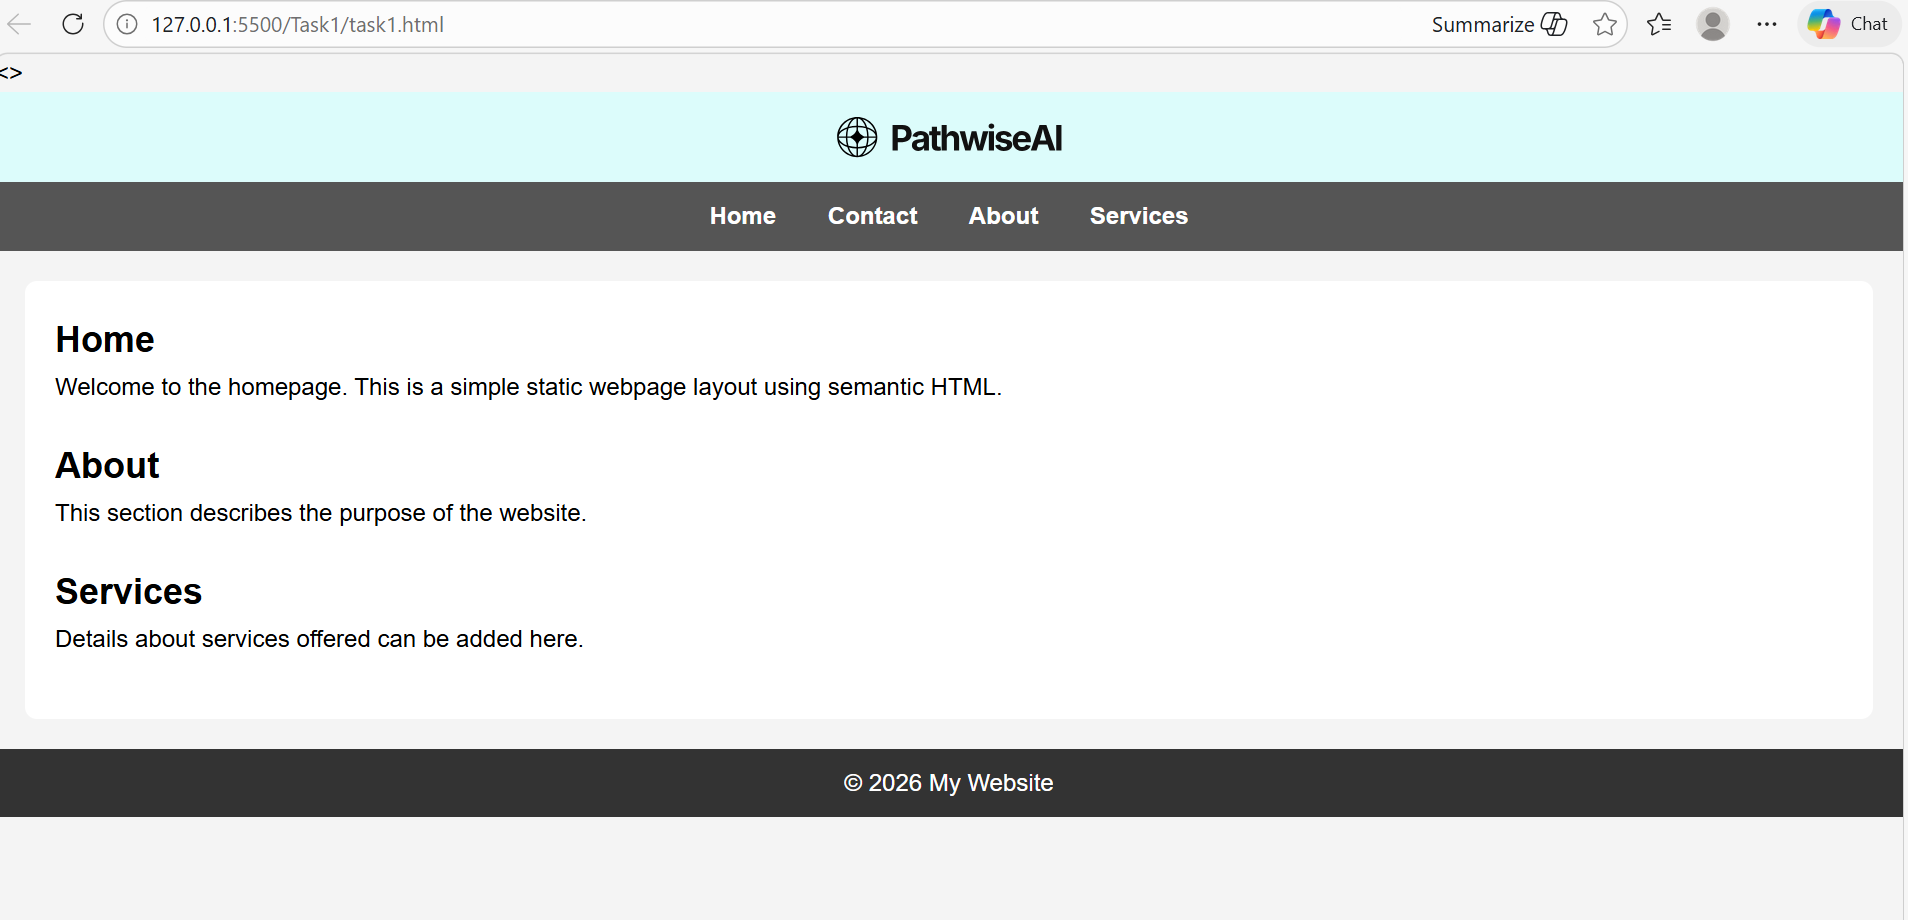
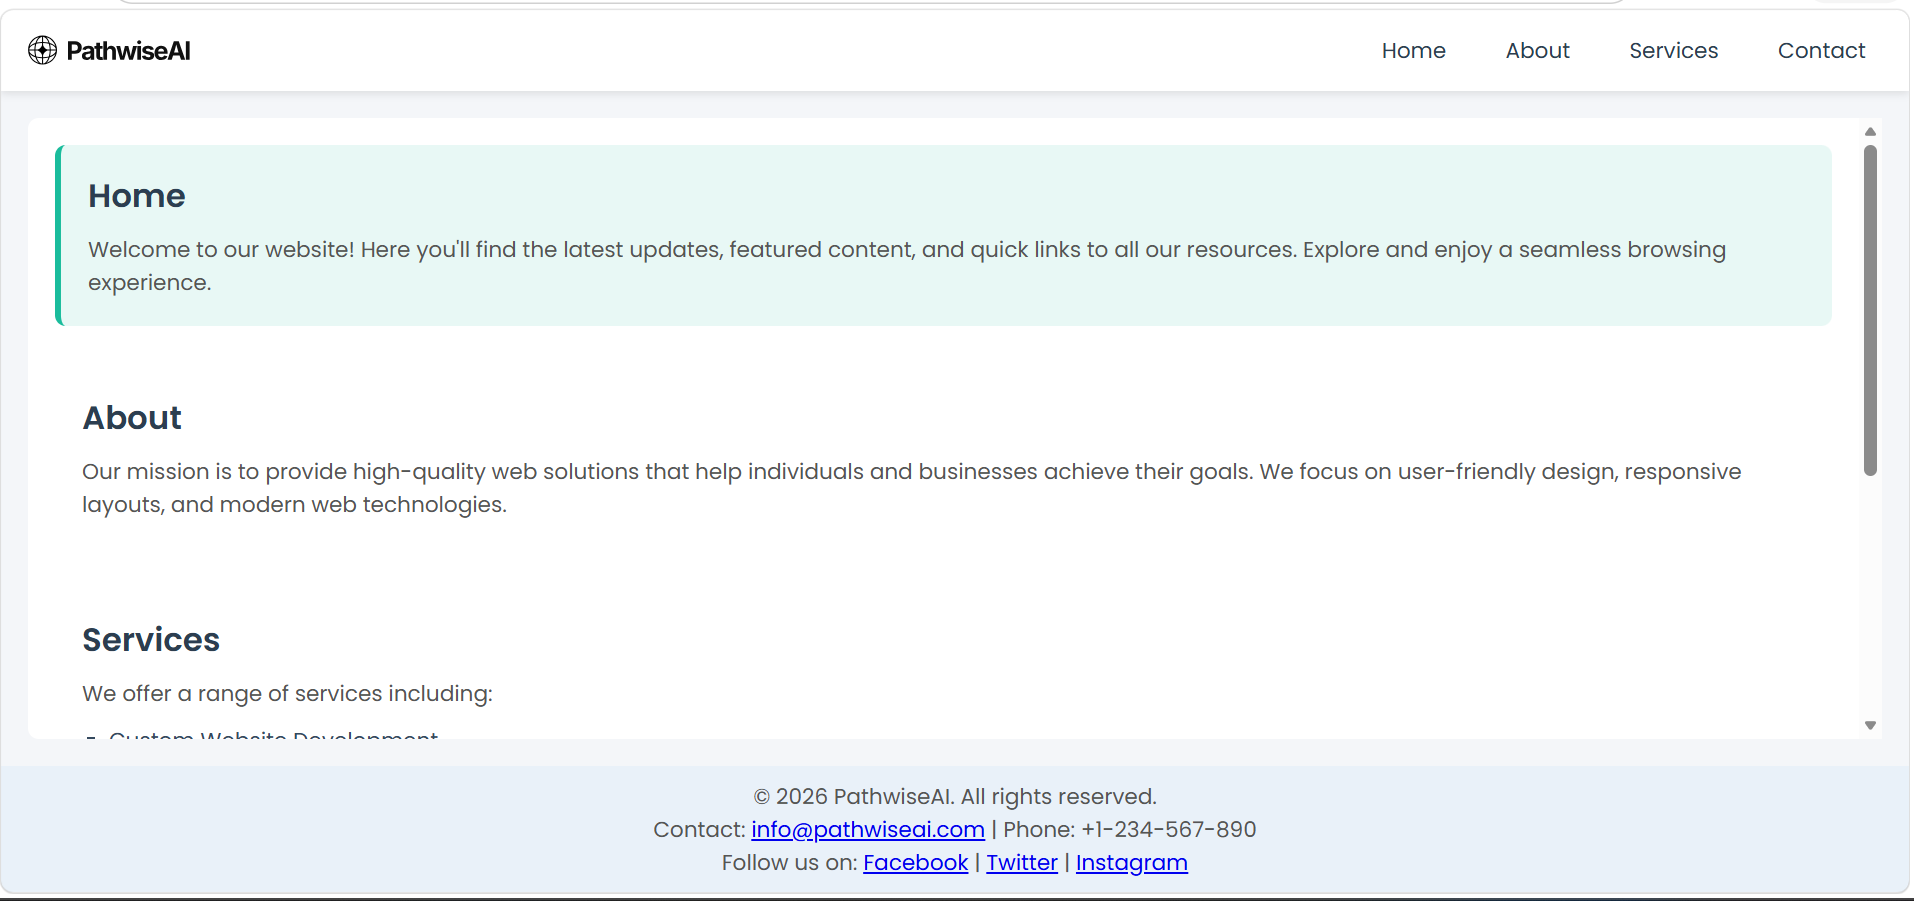
Task 1 with feedback changes

diff --git a/Task1/task1.html b/Task1/task1.html
@@ -1,60 +1,92 @@
 <!doctype html>
+<html lang="en">
   <head>
+    <meta charset="UTF-8" />
+    <meta name="viewport" content="width=device-width, initial-scale=1.0" />
     <title>PathwiseAI</title>
+
     <link rel="icon" href="images/logoipsum-299.png" />
-    <link rel="stylesheet" href="task1.css">
-  </head>
-  <body>
-  <header>
-    <img
-      src="images/logoipsum-custom-logo.svg"
-      alt="Logo"
-      width="150px"
-      height="160px"
+    <link rel="stylesheet" href="task1.css" />
+
+    <!-- Google Font for better typography -->
+    <link
+      href="https://fonts.googleapis.com/css2?family=Poppins:wght@300;400;600&display=swap"
+      rel="stylesheet"
     />
-    <nav>
-    <a href="#">Home</a>
-    <a href="#">Contact</a>
-    <a href="#">About</a>
-    <a href="#">Services</a>
-  </nav>
-  </header>
-  <main>
-    <section>
-  <h2>Home</h2>
-  <p>Welcome to our website! Here you'll find the latest updates, featured content, and quick links to all our resources. Explore and enjoy a seamless browsing experience.</p>
-</section>
+  </head>
 
-<section>
-  <h2>About</h2>
-  <p>Our mission is to provide high-quality web solutions that help individuals and businesses achieve their goals. We focus on user-friendly design, responsive layouts, and modern web technologies.</p>
-</section>
+  <body>
+    <header>
+      <img src="images/logoipsum-custom-logo.svg" alt="Logo" width="120" />
 
-<section>
-  <h2>Services</h2>
-  <p>We offer a range of services including:</p>
-  <ul>
-    <li>Custom Website Development</li>
-    <li>UI/UX Design</li>
-    <li>SEO and Digital Marketing</li>
-    <li>Web Maintenance and Support</li>
-  </ul>
-</section>
+      <nav>
+        <a href="#home">Home</a>
+        <a href="#about">About</a>
+        <a href="#services">Services</a>
+        <a href="#contact">Contact</a>
+      </nav>
+    </header>
 
-<section>
-  <h2>Contact</h2>
-  <p>If you have any questions or would like to work with us, feel free to reach out via email, phone, or our contact form. We’d love to hear from you!</p>
-</section>
-</main>
-  <footer>
-    <p>&copy; 2026 My Website. All rights reserved.</p>
-    <p>Contact: <a href="mailto:info@mywebsite.com">info@mywebsite.com</a> | Phone: +1-234-567-890</p>
-    <p>Follow us on:
-      <a href="https://facebook.com" target="_blank">Facebook</a> |
-      <a href="https://twitter.com" target="_blank">Twitter</a> |
-      <a href="https://instagram.com" target="_blank">Instagram</a>
-    </p>
-</footer>
+    <main>
+      <!-- Home -->
+      <section id="home">
+        <h2>Home</h2>
+        <p>
+          Welcome to our website! Here you'll find the latest updates, featured
+          content, and quick links to all our resources. Explore and enjoy a
+          seamless browsing experience.
+        </p>
+      </section>
 
-</body>
+      <!-- About -->
+      <section id="about">
+        <h2>About</h2>
+        <p>
+          Our mission is to provide high-quality web solutions that help
+          individuals and businesses achieve their goals. We focus on
+          user-friendly design, responsive layouts, and modern web technologies.
+        </p>
+      </section>
+
+      <!-- Services -->
+      <section id="services">
+        <h2>Services</h2>
+        <p>We offer a range of services including:</p>
+
+        <ul>
+          <li>Custom Website Development</li>
+          <li>UI/UX Design</li>
+          <li>SEO and Digital Marketing</li>
+          <li>Web Maintenance and Support</li>
+        </ul>
+      </section>
+
+      <!-- Contact -->
+      <section id="contact">
+        <h2>Contact</h2>
+        <p>
+          If you have any questions or would like to work with us, feel free to
+          reach out via email, phone, or our contact form. We’d love to hear
+          from you!
+        </p>
+      </section>
+    </main>
+
+    <footer>
+      <p>&copy; 2026 PathwiseAI. All rights reserved.</p>
+
+      <p>
+        Contact:
+        <a href="mailto:info@pathwiseai.com">info@pathwiseai.com</a> | Phone:
+        +1-234-567-890
+      </p>
+
+      <p>
+        Follow us on:
+        <a href="https://facebook.com" target="_blank">Facebook</a> |
+        <a href="https://twitter.com" target="_blank">Twitter</a> |
+        <a href="https://instagram.com" target="_blank">Instagram</a>
+      </p>
+    </footer>
+  </body>
 </html>

diff --git a/Task1/task1.css b/Task1/task1.css
@@ -1,80 +1,135 @@
+/* Reset */
 * {
   margin: 0;
   padding: 0;
   box-sizing: border-box;
-  font-family: Arial, sans-serif;
 }
 
+/* Smooth scroll */
+html {
+  scroll-behavior: smooth;
+}
+
+/* Body */
 body {
-  line-height: 1.6;
-  background: #f4f4f4;
-}
-
-header {
-  background: #dbfcfbfb;
-  color: #fff;
-  padding: 10px;
-  text-align: center;
-  height: 60px;
+  font-family: "Poppins", sans-serif;
+  background: #f4f6f9;
+  height: 100vh;
   display: flex;
-  align-items: center;
-  justify-content: space-between;
+  flex-direction: column;
 }
 
+/* Header */
+header {
+  background: #ffffff;
+  padding: 10px 20px;
+  display: flex;
+  justify-content: space-between;
+  align-items: center;
+  box-shadow: 0 2px 6px rgba(0, 0, 0, 0.1);
+}
+
+/* Logo */
 header img {
   height: 40px;
 }
 
+/* Navbar */
 nav {
-  padding: 10px;
-  text-align: center;
+  display: flex;
+  gap: 20px;
 }
 
 nav a {
-  color: #0c0000;
-  margin: 0 15px;
   text-decoration: none;
-  font-weight: bold;
+  color: #2c3e50;
+  font-weight: 500;
+  padding: 6px 12px;
+  border-radius: 5px;
+  transition: 0.3s;
 }
 
 nav a:hover {
-  color: #ffd700;
-  transition: color 0.5s;
+  background: #2c3e50;
+  color: white;
 }
 
+/* Main scroll fix */
 main {
-  padding: 20px;
+  flex: 1;
   margin: 20px;
+  padding: 20px;
   background: #fff;
   border-radius: 8px;
-  height: 600px;
+  overflow-y: auto;
 }
 
+/* Sections */
 section {
-  margin-bottom: 20px;
+  margin-bottom: 30px;
+  padding: 20px;
+  border-radius: 8px;
+  transition: 0.3s;
 }
 
+/* Highlight active section */
+section:target {
+  background: #d5f5e3;
+  border-left: 5px solid #1abc9c;
+}
+
+/* Default home highlight */
+#home {
+  background: #e8f8f5;
+}
+
+/* Typography */
+h2 {
+  margin-bottom: 10px;
+  color: #2c3e50;
+}
+
+p {
+  color: #555;
+}
+
+/* Services bullet styling */
+#services ul {
+  margin-top: 10px;
+  padding-left: 20px;
+}
+
+#services li {
+  margin-bottom: 8px;
+  list-style-type: square;
+  color: #34495e;
+  font-weight: 500;
+}
+
+/* Footer */
 footer {
-  background: #333;
-  color: #fff;
+  background: #e9f1f9;
+  color: rgb(21, 5, 5);
   text-align: center;
   padding: 10px;
-  margin-top: 20px;
-  height: 120px;
 }
 
-footer a {
-  text-decoration: none;
-  color: red;
-}
+/* Mobile Responsive */
 @media (max-width: 768px) {
-  nav {
-    display: flex;
+  header {
     flex-direction: column;
+    gap: 10px;
+  }
+
+  nav {
+    flex-direction: column;
+    width: 100%;
   }
 
   nav a {
-    margin: 10px 0;
+    text-align: center;
+    padding: 10px;
+    border-bottom: 1px solid #eee;
   }
 
   main {

diff --git a/Task1/README.md b/Task1/README.md
@@ -1,9 +1,11 @@
 # Static Webpage Layout
 
 ## Objective
+
 Create a single-page website using semantic HTML elements such as `<header>`, `<nav>`, `<main>`, and `<footer>`.
 
 ## Requirements
+
 - Apply basic CSS styling for typography and colors.
 - Use CSS for spacing (margins and paddings) to create a clear structure.
 - Implement a simple responsive design that adjusts the layout on smaller screens using media queries.
@@ -13,7 +15,17 @@ Create a single-page website using semantic HTML elements such as `<header>`, `<
 ### Output Screenshots
 
 #### 1
+
 ![Output](images/t1.png)
 
 #### 2
+
 ![Output](images/t2.png)
+
+#### 3
+
+![Output](images/t3.png)
+
+#### 4
+
+![Output](images/t4.png)
